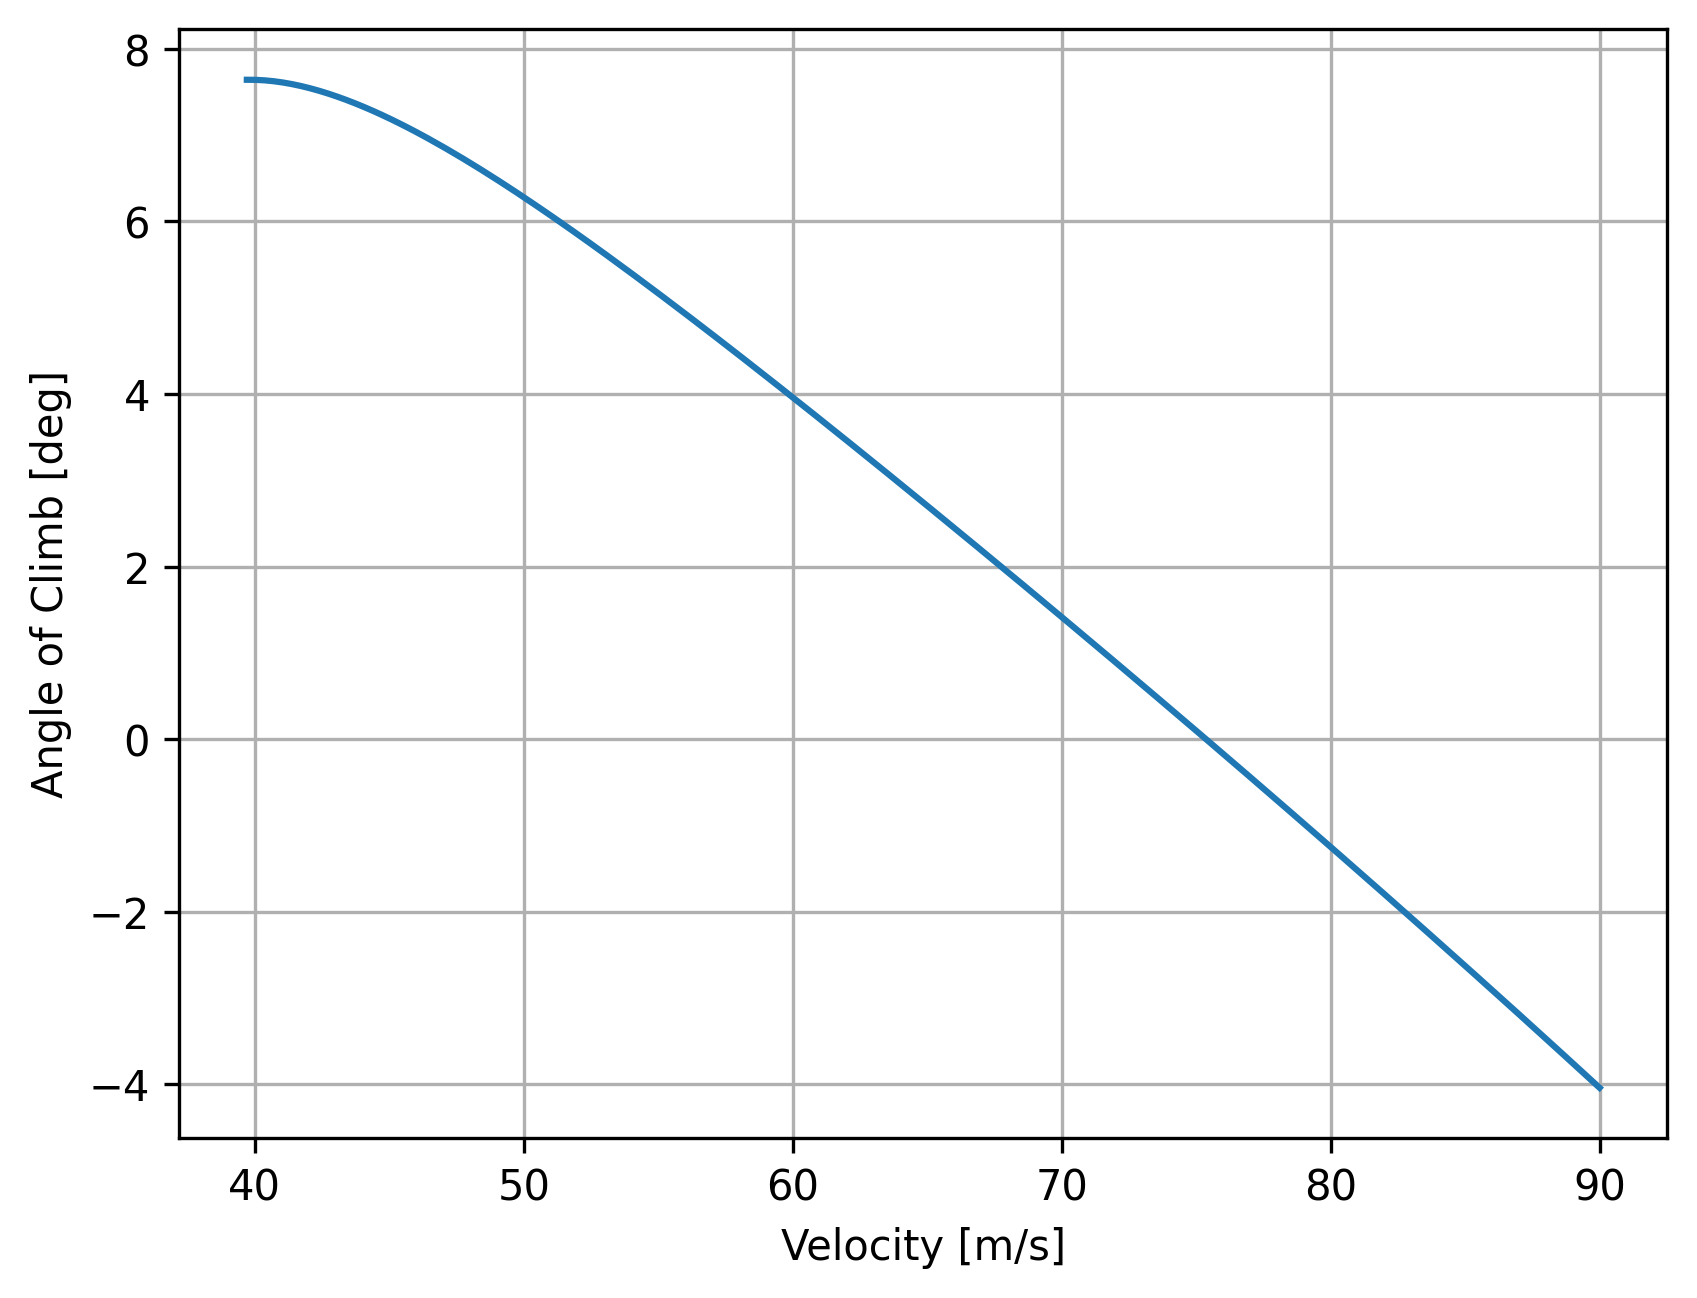
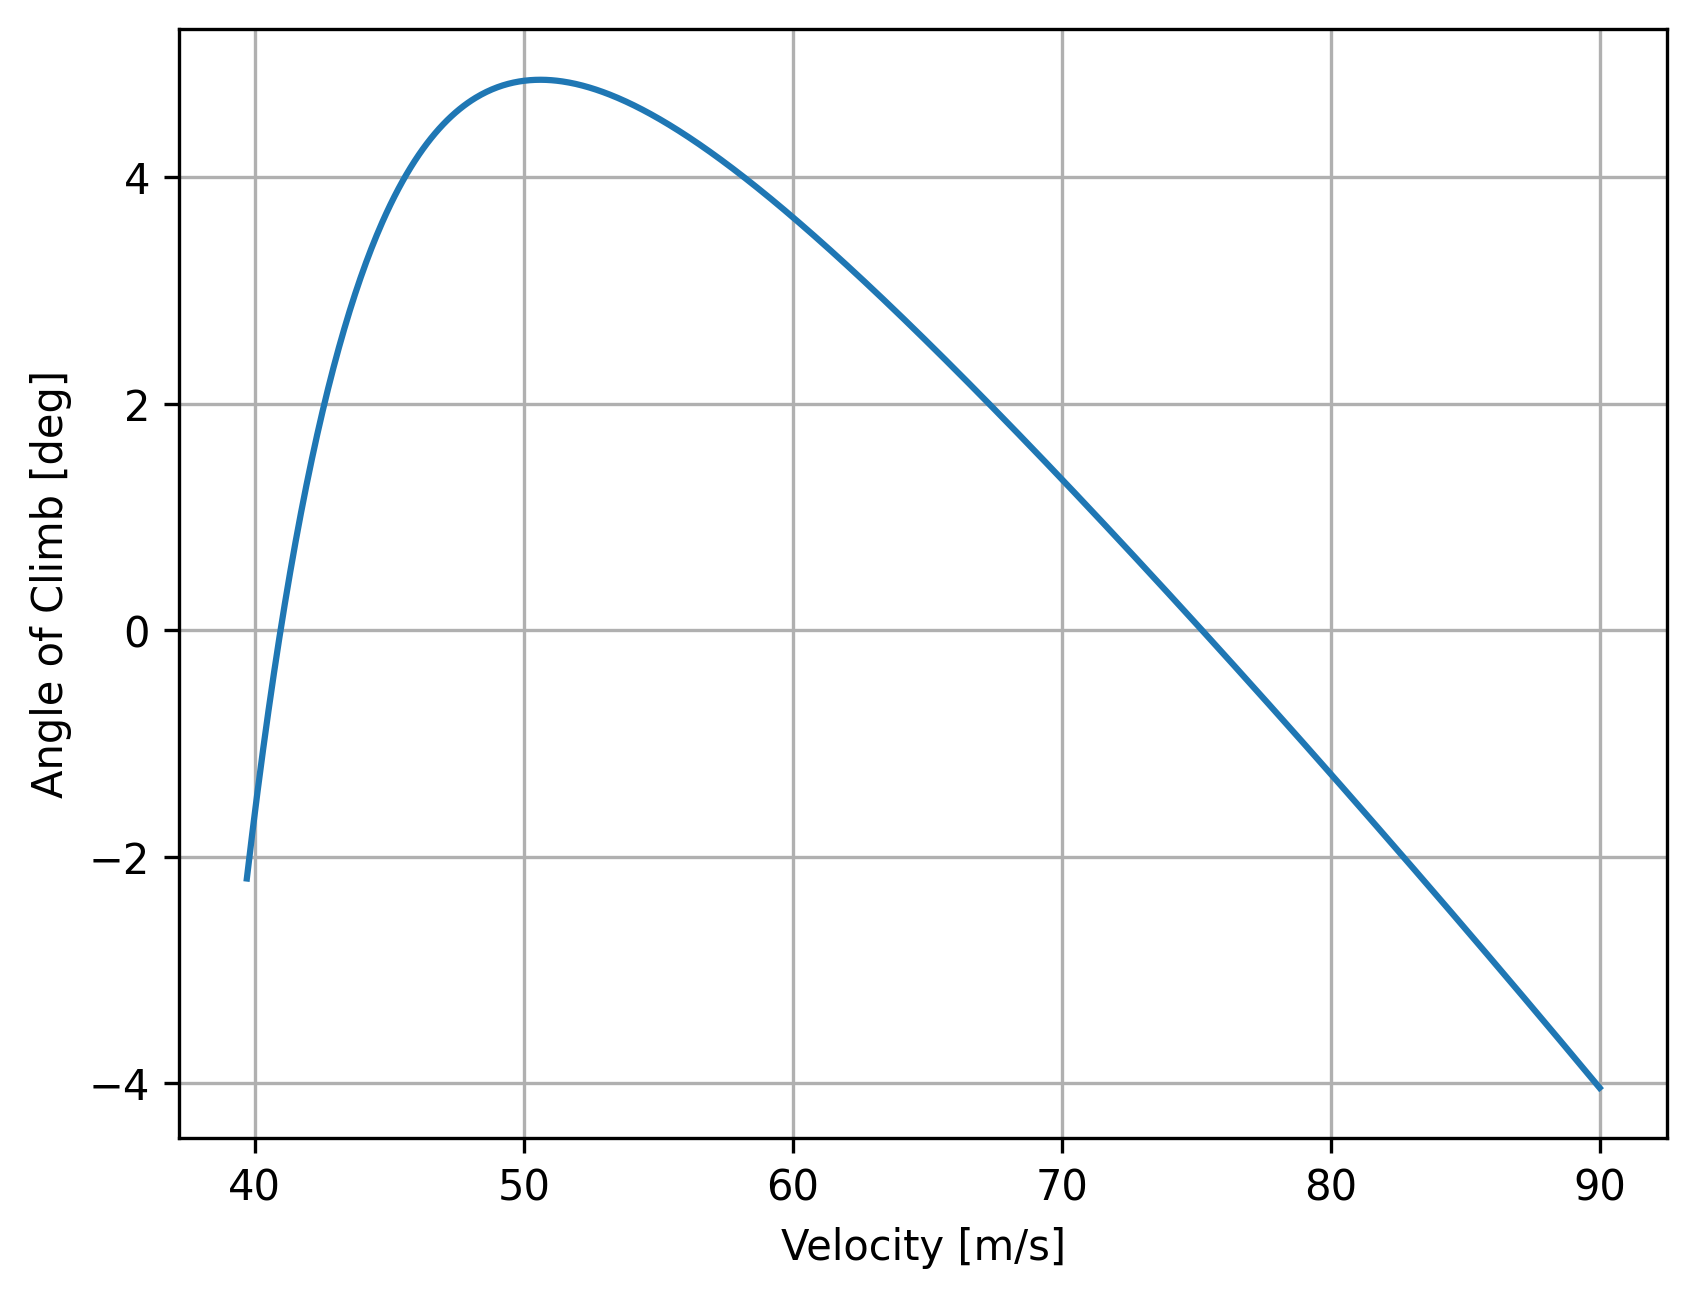
envelope changes

diff --git a/performance_diagrams/performance_diagrams.py b/performance_diagrams/performance_diagrams.py
@@ -10,7 +10,7 @@ from lookups.consts import *
 import matplotlib.pyplot as plt
 from pathlib import Path
 from Propeller_performance import *
-
+from scipy.optimize import brentq
 
 def stall_speed(mtow, C_l_max, rho, S):
     return math.sqrt((2 * mtow)/(rho * S * C_l_max))
@@ -21,7 +21,7 @@ def power_calc(cd0, e, AR, mtow, V, S,alt_m, P_shaft,Delta_T, D_ft):
     
     atmos_model = Atmosphere(alt_m, Delta_T)
     rho = atmos_model.density[0]
-    T_engine, P_useful_w = curve(D_ft, rho, P_shaft)
+    T_engine, P_useful_w, V_ms = curve(D_ft, rho, P_shaft)
     C_l = mtow / (0.5 * rho * V ** 2 * S)
     C_d = cd0 + 0.95**2*C_l ** 2 / (np.pi * AR * e)
     P_r = C_d * 0.5 * rho * V ** 3 * S #DV
@@ -93,7 +93,7 @@ def power_curves_altitude(cd0, e, AR, mtow, S, P_a, alt_m, delta_T):
 
         atmos_model = Atmosphere(alt, delta_T)
         rho = atmos_model.density[0]
-        V = np.linspace(1.3*stall_speed(mtow, C_l_max, rho, S), 90, 151)
+        V = np.linspace(1.3*stall_speed(mtow, C_l_max, rho, S), 90, 1000)
         V_alts.append(V)
 
         C_l = mtow / (0.5 * rho * V**2 * S)
@@ -143,14 +143,14 @@ def RoC_multiple_alts(P_a_alts, P_r_alts, V_alts, mtow,alt_m):
 
 
 def max_RoC_altitude(mtow, P_a, cd0, S, AR, e, delta_T):
-    alts = np.arange(0, 10000, 1)  # [m]
+    alts = np.arange(0, 3000, 1)  # [m]
 
     max_RoCs = []
 
     for a in alts:
         atmos_model = Atmosphere(a, delta_T)
         rho = atmos_model.density[0]
-        V = np.linspace(1.3*stall_speed(mtow, C_l_max, rho, S), 80, 151)
+        V = np.linspace(1.3*stall_speed(mtow, C_l_max, rho, S), 80, 1000)
 
         C_l = mtow / (0.5 * rho * V ** 2 * S)
         C_d = cd0 + 0.95**2*C_l ** 2 / (np.pi * AR * e)
@@ -176,97 +176,215 @@ def max_RoC_altitude(mtow, P_a, cd0, S, AR, e, delta_T):
     return max_RoCs, alts
 
 
-def envelope(C_l_max, mtow, S, cd0, AR, e, P_a, rho_0, n, delta_T):
-    alts = np.arange(0, 10000, 1)  # [m]
+#def envelope(C_l_max, mtow, S, cd0, AR, e, P_a, rho_0, n, delta_T):
+    # alts = np.arange(0, 10000, 1)  # [m]
+
+    # V_s_list = []
+    # V_max_list = []
+    # V_max_ROC_list = []
+    # V_max_AOC_list = []
+    # V_min_list = []
+
+    # for a in alts:
+    #     atmos_model = Atmosphere(a, delta_T)
+    #     rho = atmos_model.density[0]
+    #     V = np.linspace(50, 110, 1000)
+
+    #     V_s = math.sqrt((2 * mtow)/(rho * S * C_l_max))
+    #     V_s_list.append(V_s)
+
+    #     C_l = mtow / (0.5 * rho * V ** 2 * S)
+    #     C_d = cd0 + C_l ** 2 / (np.pi * AR * e)
+
+    #     P_r = C_d * 0.5 * rho * V ** 3 * S
+
+
+    #     P_a = np.ones_like(V) * P_a
+
+    #     RoC = (P_a - P_r) / mtow
+    #     idx_max = np.argmax(RoC)
+    #     Vmax_RoC = V[idx_max]
+    #     V_max_ROC_list.append(Vmax_RoC)
+
+    #     V_aoc = np.linspace(1.3*V_s, 110, 1000)
+    #     AoC = np.arcsin((P_a - P_r) / (mtow * V_aoc))
+    #     AoC = np.rad2deg(AoC)
+    #     idx_max = np.argmax(AoC)
+    #     V_max_AoC = V_aoc[idx_max]
+    #     V_max_AOC_list.append(V_max_AoC)
+
+    #     diff = P_a - P_r
+    #     crossing_indices = np.where(np.diff(np.sign(diff)) != 0)[0]
+    #     intersections = []
+        
+    #     for i in crossing_indices:
+    #         # Linear interpolation
+    #         x1, x2_ = V[i], V[i + 1]
+    #         d1, d2 = diff[i], diff[i + 1]
+        
+    #         # intersection x
+    #         xi = x1 - d1 * (x2_ - x1) / (d2 - d1)
+        
+    #         # intersection y
+    #         yi = P_a[i] + (P_a[i + 1] - P_a[i]) * (xi - x1) / (x2_ - x1)
+        
+    #         intersections.append((xi, yi))
+        
+    #     #print("Intersection points:")
+    #     # for pt in intersections:
+    #     #     print(pt)
+        
+    #     if len(intersections) == 1:
+    #         i = crossing_indices[0]
+        
+    #         # Check sign change direction
+    #         before = diff[i]
+    #         after = diff[i + 1]
+        
+    #         if before < 0 and after > 0:
+    #             kind = "minimum"
+    #         elif before > 0 and after < 0:
+    #             kind = "maximum"
+    #         else:
+    #             kind = "undetermined"
+        
+    #         #print(f"\nSingle intersection corresponds to a local {kind}.")
+    #     idx = np.where(np.diff(np.sign(P_a - P_r)))[0]
+    #     #print(idx)
+        
+    #     V_max = intersections[-1][0]
+    #     V_max_list.append((V_max))
+    #     V_min = intersections[0][0]
+    #     V_min_list.append(V_min)
+
+    # # print(V_max_list)
+    # #print(V_s_list)\
+    # save_path=Path(__file__).parent / "performance_figures/envelope.png"
+    # plt.xlabel("Velocity [m/s]")
+    # plt.ylabel("Altitude [m]")
+    # plt.grid(True)
+    # plt.plot(V_s_list, alts, label = "stall speed")
+    # plt.plot(V_max_AOC_list, alts, label = "max aoc")
+    # plt.plot(V_max_ROC_list, alts, label = "max roc")
+    # plt.plot(V_max_list,alts, label = "Vmax")
+    # plt.plot(V_min_list, alts, label = "Vmin")
+    # plt.legend()
+    # os.makedirs(os.path.dirname(save_path), exist_ok=True)
+    # plt.savefig(save_path, dpi=300, bbox_inches='tight')
+    # plt.close()
+    
+def envelope(C_l_max, mtow, S, cd0, AR, e, P_a_available, rho_0, n, delta_T):
+
+    alts = np.arange(0, 10000, 1)
 
     V_s_list = []
     V_max_list = []
+    V_min_list = []
     V_max_ROC_list = []
     V_max_AOC_list = []
 
     for a in alts:
+
         atmos_model = Atmosphere(a, delta_T)
         rho = atmos_model.density[0]
-        V = np.linspace(1.3*stall_speed(mtow, C_l_max, rho, S), 110, 151)
 
-        V_s = math.sqrt((2 * mtow)/(rho * S * C_l_max))
+        # Stall speed
+        V_s = np.sqrt((2 * mtow) / (rho * S * C_l_max))
         V_s_list.append(V_s)
 
-        C_l = mtow / (0.5 * rho * V ** 2 * S)
-        C_d = cd0 + C_l ** 2 / (np.pi * AR * e)
+        # Wider velocity range so low-speed intersection is not missed
+        V = np.linspace(max(0.7 * V_s, 20), 110, 1000)
 
-        P_r = C_d * 0.5 * rho * V ** 3 * S
+        # Power required
+        C_l = mtow / (0.5 * rho * V**2 * S)
+        C_d = cd0 + C_l**2 / (np.pi * AR * e)
+        P_r = C_d * 0.5 * rho * V**3 * S
 
+        # Power available
+        P_a = np.full_like(V, P_a_available)
 
-        P_a = np.ones_like(V) * P_a
-
+        # ==========================================================
+        # Maximum Rate of Climb
+        # ==========================================================
         RoC = (P_a - P_r) / mtow
+
         idx_max = np.argmax(RoC)
-        Vmax_RoC = V[idx_max]
-        V_max_ROC_list.append(Vmax_RoC)
+        V_max_ROC_list.append(V[idx_max])
 
-        AoC = np.arcsin((P_a - P_r) / (mtow * V))
-        AoC = np.rad2deg(AoC)
+        # ==========================================================
+        # Maximum Angle of Climb (FIXED)
+        # ==========================================================
+        V_aoc = np.linspace(1.3 * V_s, 110, 1000)
+
+        C_l_aoc = mtow / (0.5 * rho * V_aoc**2 * S)
+        C_d_aoc = cd0 + C_l_aoc**2 / (np.pi * AR * e)
+        P_r_aoc = C_d_aoc * 0.5 * rho * V_aoc**3 * S
+
+        arg = (P_a_available - P_r_aoc) / (mtow * V_aoc)
+
+        # avoid invalid arcsin values
+        arg = np.clip(arg, -1, 1)
+
+        AoC = np.rad2deg(np.arcsin(arg))
+
         idx_max = np.argmax(AoC)
-        V_max_AoC = V[idx_max]
-        V_max_AOC_list.append(V_max_AoC)
+        V_max_AOC_list.append(V_aoc[idx_max])
 
-        diff = P_a - P_r
-        crossing_indices = np.where(np.diff(np.sign(diff)) != 0)[0]
-        intersections = []
-        
+        # ==========================================================
+        # Accurate intersection search using Brent's method
+        # ==========================================================
+        diff = P_a_available - P_r
+        crossing_indices = np.where(diff[:-1] * diff[1:] < 0)[0]
+        roots = []
+
+
         for i in crossing_indices:
-            # Linear interpolation
-            x1, x2_ = V[i], V[i + 1]
-            d1, d2 = diff[i], diff[i + 1]
-        
-            # intersection x
-            xi = x1 - d1 * (x2_ - x1) / (d2 - d1)
-        
-            # intersection y
-            yi = P_a[i] + (P_a[i + 1] - P_a[i]) * (xi - x1) / (x2_ - x1)
-        
-            intersections.append((xi, yi))
-        
-        #print("Intersection points:")
-        # for pt in intersections:
-        #     print(pt)
-        
-        if len(intersections) == 1:
-            i = crossing_indices[0]
-        
-            # Check sign change direction
-            before = diff[i]
-            after = diff[i + 1]
-        
-            if before < 0 and after > 0:
-                kind = "minimum"
-            elif before > 0 and after < 0:
-                kind = "maximum"
-            else:
-                kind = "undetermined"
-        
-            #print(f"\nSingle intersection corresponds to a local {kind}.")
-        idx = np.where(np.diff(np.sign(P_a - P_r)))[0]
-        #print(idx)
-        
-        V_max = intersections[-1][0]
-        V_max_list.append((V_max))
+            v1, v2 = V[i], V[i+1]
+            d1, d2 = diff[i], diff[i+1]
 
-    # print(V_max_list)
-    #print(V_s_list)\
-    save_path=Path(__file__).parent / "performance_figures/envelope.png"
+            root = v1 - d1 * (v2 - v1) / (d2 - d1)
+            roots.append(root)
+        # Remove duplicates
+        roots = np.unique(np.round(roots, 6))
+
+        if len(roots) >= 2:
+            V_min = roots[0]
+            V_max = roots[-1]
+
+        elif len(roots) == 1:
+            # Near absolute ceiling
+            V_min = np.nan
+            V_max = roots[0]
+
+        else:
+            V_min = np.nan
+            V_max = np.nan
+
+        V_min_list.append(V_min)
+        V_max_list.append(V_max)
+
+    # ==============================================================
+    # Plot envelope
+    # ==============================================================
+
+    save_path = Path(__file__).parent / "performance_figures/envelope.png"
+
+    plt.figure(figsize=(8, 6))
     plt.xlabel("Velocity [m/s]")
     plt.ylabel("Altitude [m]")
     plt.grid(True)
-    plt.plot(V_s_list, alts)
-    plt.plot(V_max_AOC_list, alts)
-    plt.plot(V_max_ROC_list, alts)
-    plt.plot(V_max_list,alts)
+
+    plt.plot(V_s_list, alts, label="Stall speed")
+    plt.plot(V_max_AOC_list, alts, label="Max AoC")
+    plt.plot(V_max_ROC_list, alts, label="Max RoC")
+    plt.plot(V_max_list, alts, label="Vmax")
+    plt.plot(V_min_list, alts, label="Vmin")
+
+    plt.legend()
+
     os.makedirs(os.path.dirname(save_path), exist_ok=True)
-    plt.savefig(save_path, dpi=300, bbox_inches='tight')
+    plt.savefig(save_path, dpi=300, bbox_inches="tight")
     plt.close()
-    
 
 
 
@@ -292,7 +410,7 @@ if __name__ == '__main__':
     print(C_l_max)
     cd0 = 0.03376
     D_ft=5.66667 #propeller diameter
-    V = np.linspace(1.3 * stall_speed(mtow, C_l_max, rho_0, S), 90, 151)
+    V = np.linspace(1.3 * stall_speed(mtow, C_l_max, rho_0, S), 90, 1000)
     print(V)
     cruise_alt = 2500 #m cruise alt
     alt_m = [0,500,1000,1500,2000,2500,3000]

diff --git a/performance_diagrams/energy_heigt.py b/performance_diagrams/energy_heigt.py
@@ -27,7 +27,8 @@ def h_v_plot(alts, mtow,cd0,S,AR,e,c_l_max, D_ft, P_bhp):
     
     for i, alt in enumerate(alts):
         rho = Atmosphere(alt, 0).density[0]
-        V_array= np.linspace(1.3 * stall_speed(mtow, c_l_max, rho, S), 90, 100)
+        # V_array= np.linspace(1.3 * stall_speed(mtow, c_l_max, rho, S), 90, 100)
+        V_array= np.linspace(0.1, 90, 100)
         T_static, P_available_curve, V_prop = curve(D_ft, rho, P_bhp)
 
         for j, V in enumerate(V_array):

diff --git a/performance_diagrams/Propeller_performance.py b/performance_diagrams/Propeller_performance.py
@@ -136,7 +136,7 @@ def eff(D_ft,rho_kgm3,P_bhp,J):
 
 def curve( D_ft,rho_kgm3,P_bhp):
     #power shaft in horsepower per singel engine
-    V = np.linspace(65, 300, 151) #knots
+    V = np.linspace(5, 300, 1000) #knots
     Vnew=V*ktastofeet
     RPM = P_to_RPM(P_bhp)
     n = RPM / 60
